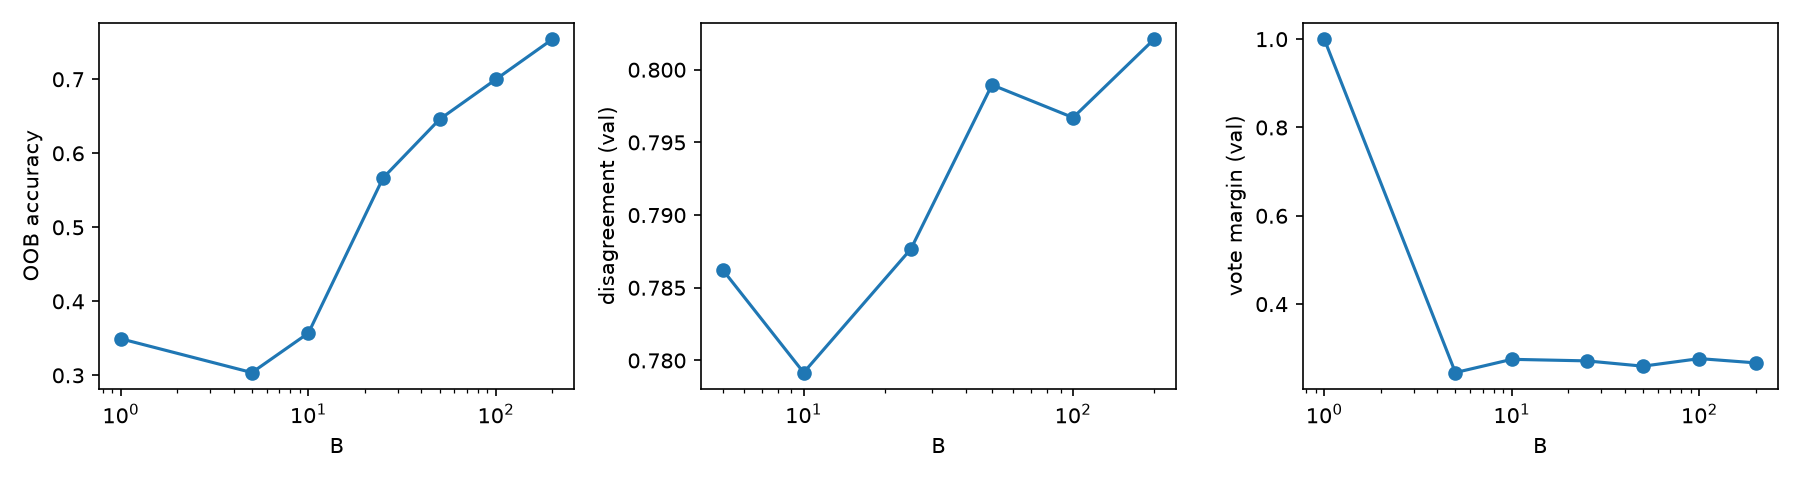
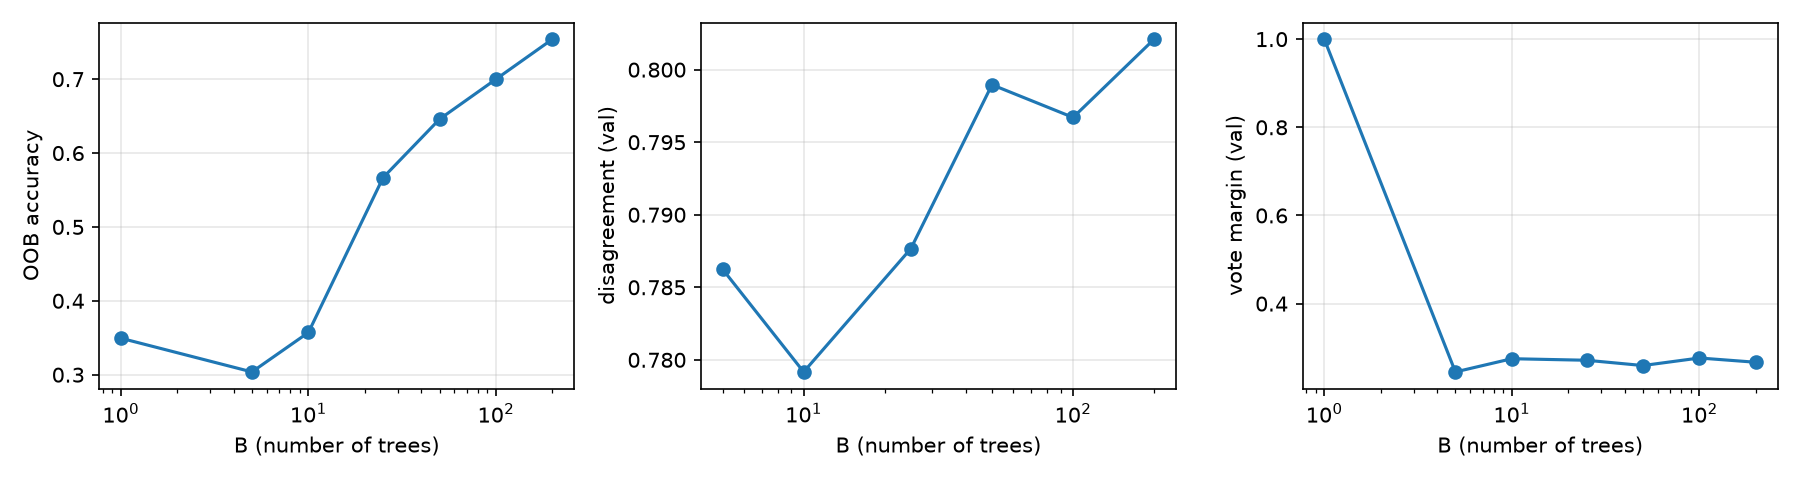
update Q1b with masked predictions, add Q1c

diff --git a/src/q1c_diagnostics.py b/src/q1c_diagnostics.py
@@ -1,50 +1,48 @@
 import os
 import json
 import numpy as np
-from sklearn.tree import DecisionTreeClassifier
-from common import load_data, mask_faces, project_folder, vote_counts
+import matplotlib.pyplot as plt
+from common import load_data, project_folder, vote_counts, disagreement, margin
 
-(X_train, y_train, X_val, y_val, X_test, y_test), seed = load_data()
-cfg = json.load(open(os.path.join(project_folder, "configs", "frozen_tree.json")))
-depth, leaf = cfg["max_depth"], cfg["min_samples_leaf"]
+(_, ytr, _, yva, _, _), seed = load_data()
+r = np.load(os.path.join(project_folder, "results", "q1_bagging.npz"))
+Bs = [1, 5, 10, 25, 50, 100, 200]
 
-n = len(X_train)                         # 240
-B_list = [1, 5, 10, 25, 50, 100, 200]
-max_B = max(B_list)
-rng = np.random.default_rng([seed, 1])   # separate generator, does not touch the split
-Xte_m = mask_faces(X_test)               # masked test set (models are trained on clean images only)
+rows, lines = [], []
+for B in Bs:
+    c = vote_counts(r["pred_val"][:B])                          # validation votes
+    oc = vote_counts(r["pred_train"][:B], ~r["in_bag"][:B])     # OOB: only trees that missed the image
+    has = oc.sum(1) > 0                                         # images with at least one OOB tree
+    row = ((c.argmax(1) == yva).mean(), (oc.argmax(1)[has] == ytr[has]).mean(),
+           disagreement(c, B) if B > 1 else np.nan, margin(c, B))
+    rows.append(row)
+    lines.append(f"B={B:3d} val={row[0]:.4f} oob={row[1]:.4f} (covered {has.sum()}/240) "
+                 f"disagreement={row[2]:.4f} margin={row[3]:.4f}")
+rows = np.array(rows)
 
-pred_train = np.zeros((max_B, len(X_train)), dtype=int)
-pred_val = np.zeros((max_B, len(X_val)), dtype=int)
-pred_test = np.zeros((max_B, len(X_test)), dtype=int)
-pred_test_m = np.zeros((max_B, len(X_test)), dtype=int)
-in_bag = np.zeros((max_B, n), dtype=bool)   # was training image j in tree b's sample?
-distinct = np.zeros(max_B)
+# final B: highest VALIDATION accuracy; argmax returns the first maximum, so ties go to the smaller B
+best_B = Bs[int(np.argmax(rows[:, 0]))]
+lines.append(f"SELECTED B={best_B}")
 
-for b in range(max_B):
-    boot = rng.integers(0, n, size=n)        # n draws WITH replacement
-    in_bag[b, np.unique(boot)] = True
-    distinct[b] = len(np.unique(boot))
-    tree = DecisionTreeClassifier(max_depth=depth, min_samples_leaf=leaf, random_state=seed + b)
-    tree.fit(X_train[boot], y_train[boot])
-    pred_train[b] = tree.predict(X_train)
-    pred_val[b] = tree.predict(X_val)
-    pred_test[b] = tree.predict(X_test)
-    pred_test_m[b] = tree.predict(Xte_m)
-    if b % 20 == 0:
-        print("tree", b, "of", max_B)
+# extra check: margin for correctly vs wrongly classified validation faces
+c = vote_counts(r["pred_val"][:best_B])
+f = np.sort(c / best_B, axis=1)
+m = f[:, -1] - f[:, -2]
+ok = c.argmax(1) == yva
+lines.append(f"margin at B={best_B}: correct faces {m[ok].mean():.4f} ({ok.sum()}), "
+             f"wrong faces {m[~ok].mean():.4f} ({(~ok).sum()})")
 
-theory = n * (1 - (1 - 1 / n) ** n)
-lines = [f"frozen tree: max_depth={depth}, min_samples_leaf={leaf}",
-         f"theoretical expected distinct per bootstrap: {theory:.2f} (limit 0.632*n = {0.632 * n:.2f})", ""]
-for B in B_list:
-    acc = [(vote_counts(p[:B]).argmax(1) == t).mean()
-           for p, t in [(pred_train, y_train), (pred_val, y_val), (pred_test, y_test)]]
-    lines.append(f"B={B:3d}  train={acc[0]:.4f}  val={acc[1]:.4f}  test={acc[2]:.4f}  "
-                 f"avg distinct={distinct[:B].mean():.2f}")
 print("\n".join(lines))
 
-np.savez(os.path.join(project_folder, "results", "q1_bagging.npz"),
-         pred_train=pred_train, pred_val=pred_val, pred_test=pred_test,
-         pred_test_masked=pred_test_m, in_bag=in_bag, distinct=distinct)
-open(os.path.join(project_folder, "logs", "q1b_bagging.log"), "w").write("\n".join(lines) + "\n")
+fig, ax = plt.subplots(1, 3, figsize=(12, 3.2))
+for a, col, name in zip(ax, [1, 2, 3], ["OOB accuracy", "disagreement (val)", "vote margin (val)"]):
+    a.plot(Bs, rows[:, col], "o-")
+    a.set_xscale("log")
+    a.set_xlabel("B (number of trees)")
+    a.set_ylabel(name)
+    a.grid(alpha=0.3)
+plt.tight_layout()
+plt.savefig(os.path.join(project_folder, "figures", "q1c_diagnostics.png"), dpi=150)
+
+open(os.path.join(project_folder, "logs", "q1c_diagnostics.log"), "w").write("\n".join(lines) + "\n")
+json.dump({"B": int(best_B)}, open(os.path.join(project_folder, "configs", "final_bagging.json"), "w"))

diff --git a/src/q1b_bagging.py b/src/q1b_bagging.py
@@ -2,31 +2,22 @@ import os
 import json
 import numpy as np
 from sklearn.tree import DecisionTreeClassifier
-from common import load_data, project_folder
+from common import load_data, mask_faces, project_folder, vote_counts
 
 (X_train, y_train, X_val, y_val, X_test, y_test), seed = load_data()
-
-with open(os.path.join(project_folder, "configs", "frozen_tree.json")) as f:
-    cfg = json.load(f)
+cfg = json.load(open(os.path.join(project_folder, "configs", "frozen_tree.json")))
 depth, leaf = cfg["max_depth"], cfg["min_samples_leaf"]
 
-n = len(X_train)                       # 240
+n = len(X_train)                         # 240
 B_list = [1, 5, 10, 25, 50, 100, 200]
 max_B = max(B_list)
-
 rng = np.random.default_rng([seed, 1])   # separate generator, does not touch the split
-
-lines = []
-
-
-def say(text):
-    print(text)
-    lines.append(text)
-
+Xte_m = mask_faces(X_test)               # masked test set (models are trained on clean images only)
 
 pred_train = np.zeros((max_B, len(X_train)), dtype=int)
 pred_val = np.zeros((max_B, len(X_val)), dtype=int)
 pred_test = np.zeros((max_B, len(X_test)), dtype=int)
+pred_test_m = np.zeros((max_B, len(X_test)), dtype=int)
 in_bag = np.zeros((max_B, n), dtype=bool)   # was training image j in tree b's sample?
 distinct = np.zeros(max_B)
 
@@ -39,31 +30,21 @@ for b in range(max_B):
     pred_train[b] = tree.predict(X_train)
     pred_val[b] = tree.predict(X_val)
     pred_test[b] = tree.predict(X_test)
-
-
-def vote_predict(preds, B):
-    """Majority vote of the first B trees. Ties go to the lowest class number."""
-    votes = np.zeros((preds.shape[1], 40))
-    for b in range(B):
-        votes[np.arange(preds.shape[1]), preds[b]] += 1
-    return votes.argmax(axis=1)
-
+    pred_test_m[b] = tree.predict(Xte_m)
+    if b % 20 == 0:
+        print("tree", b, "of", max_B)
 
 theory = n * (1 - (1 - 1 / n) ** n)
-say(f"frozen tree: max_depth={depth}, min_samples_leaf={leaf}")
-say(f"theoretical expected distinct per bootstrap: {theory:.2f} (limit 0.632*n = {0.632 * n:.2f})")
-say("")
+lines = [f"frozen tree: max_depth={depth}, min_samples_leaf={leaf}",
+         f"theoretical expected distinct per bootstrap: {theory:.2f} (limit 0.632*n = {0.632 * n:.2f})", ""]
 for B in B_list:
-    tr = (vote_predict(pred_train, B) == y_train).mean()
-    va = (vote_predict(pred_val, B) == y_val).mean()
-    te = (vote_predict(pred_test, B) == y_test).mean()
-    say(f"B={B:3d}  train={tr:.4f}  val={va:.4f}  test={te:.4f}  "
-        f"avg distinct={distinct[:B].mean():.2f}")
+    acc = [(vote_counts(p[:B]).argmax(1) == t).mean()
+           for p, t in [(pred_train, y_train), (pred_val, y_val), (pred_test, y_test)]]
+    lines.append(f"B={B:3d}  train={acc[0]:.4f}  val={acc[1]:.4f}  test={acc[2]:.4f}  "
+                 f"avg distinct={distinct[:B].mean():.2f}")
+print("\n".join(lines))
 
-os.makedirs(os.path.join(project_folder, "results"), exist_ok=True)
-os.makedirs(os.path.join(project_folder, "logs"), exist_ok=True)
 np.savez(os.path.join(project_folder, "results", "q1_bagging.npz"),
          pred_train=pred_train, pred_val=pred_val, pred_test=pred_test,
-         in_bag=in_bag, distinct=distinct)
-with open(os.path.join(project_folder, "logs", "q1b_bagging.log"), "w") as f:
-    f.write("\n".join(lines) + "\n")
+         pred_test_masked=pred_test_m, in_bag=in_bag, distinct=distinct)
+open(os.path.join(project_folder, "logs", "q1b_bagging.log"), "w").write("\n".join(lines) + "\n")
